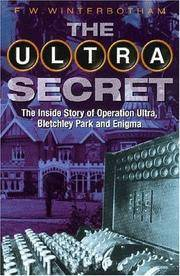
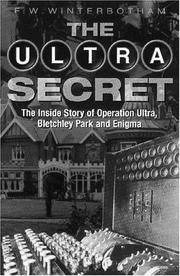
images now take several columns

diff --git a/index.html b/index.html
@@ -7,24 +7,24 @@
 </head>
 <body>
 Font size:
-<label for="font-size-small">Small</label>
 <input type="radio" id="font-size-small" name="font-size" value="small">
-<label for="font-size-medium">Medium</label>
+<label for="font-size-small">Small</label>
 <input type="radio" id="font-size-medium" name="font-size" value="medium" checked>
-<label for="font-size-large">Large</label>
+<label for="font-size-medium">Medium</label>
 <input type="radio" id="font-size-large" name="font-size" value="large">
+<label for="font-size-large">Large</label>
 <br>
 Font family:
-<label for="font-family-serif">Serif</label>
 <input type="radio" id="font-family-serif" name="font-family" value="serif" checked>
-<label for="font-family-sans-serif">Sans-serif</label>
+<label for="font-family-serif">Serif</label>
 <input type="radio" id="font-family-sans-serif" name="font-family" value="sans-serif">
+<label for="font-family-sans-serif">Sans-serif</label>
 <br>
 Theme:
-<label for="theme-light">Light</label>
 <input type="radio" id="theme-light" name="theme" value="light" checked>
-<label for="theme-dark">Dark</label>
+<label for="theme-light">Light</label>
 <input type="radio" id="theme-dark" name="theme" value="dark">
+<label for="theme-dark">Dark</label>
 <section class="content">
 <header>
     <h1>The New York Times</h1>
@@ -139,13 +139,6 @@ Theme:
                 one of the com&shy;mercial mo&shy;dels showed that the Reich&shy;swehr had al&shy;tered it
                 for sec&shy;re&shy;cy.
             </p>
-            <figure class="img-container">
-                <img
-                    src="images/book.jpg"
-                    alt="'The Ultra Secret' book"
-                    title="Winterbotham, 'The Ultra Secret'">
-                <figcaption>F.W.Winterbotham, "The Ultra Secret"</figcaption>
-            </figure>
             <p>
                 In 1932, the Po&shy;lish Biu&shy;ro Szyf&shy;rów (ci&shy;pher bu&shy;reau) got ad&shy;di&shy;
                 tion&shy;al man&shy;power in the form of three young mathema&shy;ti&shy;cians. Hen&shy;ryk
@@ -180,6 +173,17 @@ Theme:
                 count&shy;ri&shy;es re&shy;plac&shy;ed their Eni&shy;gmas with new crypto&shy;sys&shy;tems.
             </p>
             <p>Da&shy;vid Kahn is author of "The Code&shy;break&shy;ers."</p>
+            <figure class="img-container">
+                <img
+                    src="images/book.jpg"
+                    alt="'The Ultra Secret' book"
+                    title="Winterbotham, 'The Ultra Secret'">
+                <img
+                    src="images/book1.jpg"
+                    alt="'The Ultra Secret' book"
+                    title="Winterbotham, 'The Ultra Secret'">
+                <figcaption>F.W.Winterbotham, "The Ultra Secret"</figcaption>
+            </figure>
         </article>
     </section>
 </main>

diff --git a/index.css b/index.css
@@ -92,12 +92,25 @@ h3
 
 .articles
 {
-    column-count: 3;
-    column-gap: 100px;
-    column-rule: 3px solid #000;
     -moz-column-count: 3;
     -moz-column-gap: 100px;
     -moz-column-rule: 3px solid #000;
+    column-count: 3;
+    column-gap: 100px;
+    column-rule: 3px solid #000;
+}
+
+article:last-of-type
+{
+    -moz-column-count: 2;
+    -moz-column-gap: 30px;
+    column-count: 2;
+    column-gap: 30px;
+}
+
+article:last-of-type h3
+{
+    column-span: all;
 }
 
 article:not(:last-of-type)
@@ -115,13 +128,13 @@ article:not(:last-of-type)
 .img-container
 {
     text-align: center;
-    float: left;
+    column-span: all;
 }
 
-.img-container img
+img
 {
-    filter: grayscale(100%);
-    -webkit-filter: grayscale(100%);
+   width: 40%;
+   padding: 0 20px;
 }
 
 input[id='theme-dark']:checked ~ .content
